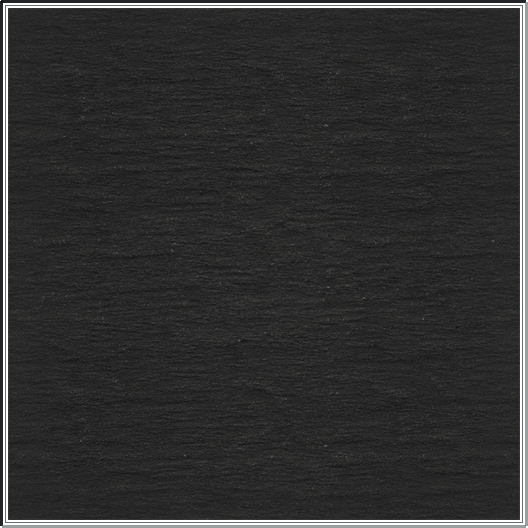
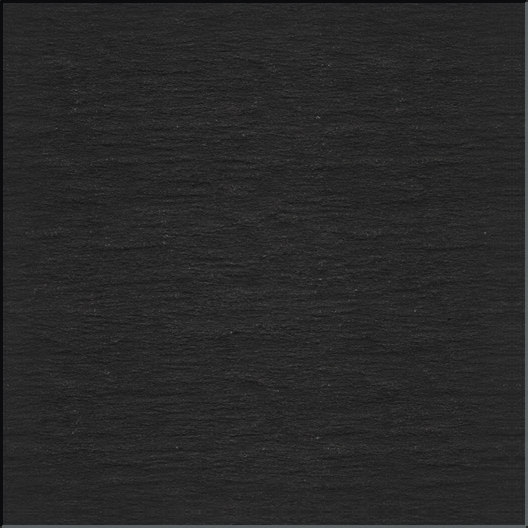
Polish slate surfaces and Character Files workspace

Changed region(s): [[0.0, 0.0, 1.0, 1.0]]

diff --git a/src/presentation/AGENTS.md b/src/presentation/AGENTS.md
@@ -22,7 +22,7 @@ Own scenes, controls, screen presenters, topology-derived rendering caches, anim
 - Party setup renders all six current-party slots with full-size portraits and without scrolling at the minimum viewport, removing assembly-only helper copy before shrinking portraits. It presents Monster Set in Normal, Mega, Monster order alongside source-authored recommended/maximum/current aggregate levels and the core-computed experience percentage. Difficulty and Monster Set controls emit one typed setup intent; labels and availability come from the detached `PartySetupView`, and presentation never recomputes reward scaling or monster identity.
 - Appearance may sort detached options and decode their package thumbnails, but it retains stable asset IDs and never enumerates host folders. The selected portrait may pair its corresponding tactical icon only until the player explicitly changes that icon.
 - Identity exposes Castle's fixed starting levels filtered by the campaign maximum. Presentation submits the selected level and renders the resulting session-owned draft; it never synthesizes an advanced character or calculates progression. Reroll and acceptance emit typed intents; the unspent-spell and vault-publication confirmations are session-owned interactions, not local dialog shortcuts.
-- The vault workspace renders detached immutable revision history and exact eligibility reasons. Archive/recovery signals cross to the host repository; presentation never opens, moves, rewrites, or deletes `.r2char` files.
+- The Character Files workspace is a full-stage route that suppresses the persistent roster, textbox, and command deck. It renders detached immutable revision history and exact eligibility reasons with the complete viewport available. Archive/recovery signals cross to the host repository; presentation never opens, moves, rewrites, or deletes `.r2char` files.
 - The System workspace renders detached primary/backup save previews and exact corruption or identity-mismatch reasons. Browsing never opens save files, and choosing a candidate delegates full validation and replacement-session restore to the host.
 - Finalized and imported setup members render only from `GameView`; Add, Remove, and Begin emit typed intents. The presenter does not retain a parallel party array or infer that a committed setup edit has begun the adventure. Setup inspection fills the setup viewport on an opaque clipped surface above assembly, so the complete character sheet never composites with the picker beneath it.
 - Party setup and campaign-aware vault browsing reuse `ClassicCharacterSheet` for complete mutation-free inspection before import or Begin. Eligible and ineligible revisions keep their exact target-campaign reasons visible; inspection never changes or republishes a vault revision.
@@ -48,7 +48,7 @@ Own scenes, controls, screen presenters, topology-derived rendering caches, anim
 - Switching between 2D and 3D changes only presentation settings. It cannot create collision, movement, LOS, discovery, or door state.
 - Presentation and accessibility settings cannot change rules.
 - Auto Switch to Melee is a persisted application convenience preference, defaulted on from Castle's bundled preferences. Presentation attaches its boolean value only to a manual combat movement response; it never mutates battle weapon mode or supplies the preference to direct Attack, current-turn Auto, persistent Auto, charmed actors, or monsters.
-- Realmz Rebuilt has one visual system. Verified base-game command bitmaps and integrated Classic media are application-owned, versioned assets; scenario-owned CICNs, portraits, pictures, sounds, and map art remain package content. Exact scenario `(resource type, ID)` keys override the corresponding application key. Application PICT/CICN families migrate only after their package-reference and readiness contracts are proven; numeric ID alone never selects an owner. Both catalogs use nearest-neighbor sampling where applicable and never share an ambiguous lookup. Slate backgrounds and frame centers use the manifest-backed seamless tile at native scale with repeat enabled; responsive containers crop or tile it and never stretch it.
+- Realmz Rebuilt has one visual system. Verified base-game command bitmaps and integrated Classic media are application-owned, versioned assets; scenario-owned CICNs, portraits, pictures, sounds, and map art remain package content. Exact scenario `(resource type, ID)` keys override the corresponding application key. Application PICT/CICN families migrate only after their package-reference and readiness contracts are proven; numeric ID alone never selects an owner. Both catalogs use nearest-neighbor sampling where applicable and never share an ambiguous lookup. Slate backgrounds and frame centers use the manifest-backed seamless tile at native scale with repeat enabled; responsive containers crop or tile it and never stretch it. Generated raised/inset bevels retain opaque slate through their complete bounds so buttons and panels never expose accidental parent-colored corner gaps.
 - If an action has no verified bitmap in the app-owned catalog, render its ordinary text label through the shared theme. Never construct a blank `TextureButton`, repurpose a status marker as command art, or make hover text the only visible action identity.
 - Interface density and text scale are independent. The window minimum is 800x600; larger settings stack, wrap, or scroll and do not fractionally scale Classic map/content art.
 - Unidentified item views expose only player-knowable names and details. Presentation never reveals identified descriptions, values, curse relationships, or other hidden definition facts.

diff --git a/src/presentation/assets/AGENTS.md b/src/presentation/assets/AGENTS.md
@@ -14,7 +14,7 @@ Own Realmz 2 application chrome assets and their provenance.
 - Scenario-owned pictures, icons, portraits, sounds, and map art remain package media. Built-in resource families enter this folder only through an exact-commit catalog with explicit ownership, license, modifications, and byte hashes; scenario packages may override an exact application key.
 - Verified base-game UI controls and map markers may enter only through the exact-commit catalog/importer. Preserve their source pixels and embedded labels. Record semantic evidence per asset: donor-scene use for controls or pinned Castle resource-fork ownership plus source/control-flow for built-in CICNs. A numeric resource ID without its owning fork is insufficient provenance.
 - Generated chrome must contain no text, symbols, scenario content, or executable metadata. It surrounds imported controls but never repaints them.
-- The selected SpriteCook surface remains preserved as provenance input. Runtime slate uses its deterministic cosine-feathered seamless derivative; frame centers contain that same native-scale tile. Opposite tile edges must match exactly, and no container may stretch a stone center.
+- The selected SpriteCook surface remains preserved as provenance input. Runtime slate uses its deterministic cosine-feathered seamless derivative; frame centers and complete bevel bounds contain that same native-scale tile. Opposite tile edges must match exactly, no container may stretch a stone center, and generated frame corners must remain opaque.
 - Original controls use nearest-neighbor filtering at exact 1x/2x only. Fonts ship with pinned source, hashes, and licenses and introduce no runtime network dependency.
 - Integrated sounds retain exact `snd ` IDs and load from Godot-imported WAV resources. The generated manifest and `THIRD_PARTY_NOTICES.txt` preserve the Castle commit, source fork, copyright, license, and decoding/resampling modification.
 - Integrated combat CIcons retain exact `cicn` IDs and native dimensions. The selected catalog is limited to source-backed active cues, result effects 159–167, bounded death-effect candidates 2015–2019, and existing spell cast/resolution frames 12000–12127. Standard spells with `lookStart` zero make Castle request the absent 11992–11999 family; presentation reports that exact unavailable identity rather than substituting art. Scenario media overrides the same exact key. Red pixels or numeric adjacency alone do not establish blood, gore, or a semantic identity.

diff --git a/tools/ui-assets/AGENTS.md b/tools/ui-assets/AGENTS.md
@@ -17,7 +17,7 @@ Own deterministic import and derivation of Realmz Rebuilt application chrome and
 - Preserve imported pixels byte-for-byte. Derived slate surfaces must identify their source asset and algorithm.
 - Integrated media keeps exact Classic `(resource type, ID)` identity and provenance. The runtime resolves scenario package media before these application fallbacks, matching Castle's resource-chain precedence.
 - Preserve existing Godot `.import` sidecars for retained catalog assets so exact-byte regeneration does not churn stable resource UIDs; newly added assets receive their sidecars from the ordinary Godot import pass.
-- `build-classic-surfaces.ps1 -RebuildFromCommittedSurface` is the offline path for regenerating the seamless tile and frame kit without replacing selected SpriteCook provenance.
+- `build-classic-surfaces.ps1 -RebuildFromCommittedSurface` is the offline path for regenerating the seamless tile and frame kit without replacing selected SpriteCook provenance. Raised and inset frames tile the selected slate through their complete bounds; bevel corners remain opaque so controls cannot reveal unrelated parent colors.
 - Validate hashes and PNG dimensions before replacing committed outputs.
 
 ## Work Guidance
@@ -27,7 +27,7 @@ Own deterministic import and derivation of Realmz Rebuilt application chrome and
 ## Verification
 
 - `sync-classic-ui-assets.ps1` verifies source commits, source hashes, decoded CICN identity, PNG bytes, dimensions, and manifest output.
-- `build-classic-surfaces.ps1` verifies every generated PNG, records deterministic SHA-256 values, and produces a tile with exact matching opposite edges.
+- `build-classic-surfaces.ps1` verifies every generated PNG, records deterministic SHA-256 values, produces a tile with exact matching opposite edges, and records the opaque-bevel algorithm version.
 - `verify-classic-application-media.ps1` verifies unique IDs/resource keys, the expected integrated sound and combat-CIcon counts, native image dimensions, and every committed byte count and SHA-256 without requiring an external Castle checkout.
 
 ## Child DOX Index

diff --git a/tests/presentation/AGENTS.md b/tests/presentation/AGENTS.md
@@ -31,7 +31,7 @@
 - System workspace fixtures cover detached current and backup save facts, distinct load operations, and disabled corrupt-record reasons without reading host files.
 - Lifecycle fixtures distinguish End Adventure from process Quit, cover each field/combat/no-session option set, and prove save-failure suppression, explicit no-save, Cancel, and response identity without closing the test process or treating the host prompt as gameplay state.
 - Package-library fixtures distinguish manifest availability from full readiness and cover determinate worker progress, competing-action suppression, Cancel signaling, and terminal cleanup without opening archives from presentation.
-- Startup-shell fixtures cover the pre-session splash, scenario selection, Character Files entry, and return navigation. Party-setup fixtures assert that advanced revision/archive controls stay out of ordinary assembly. Menu-state fixtures cover no-session and party-setup route suppression, disabled parent menus, and opaque popup borders.
+- Startup-shell fixtures cover the pre-session splash, scenario selection, full-stage Character Files entry without the persistent roster, and return navigation. Party-setup fixtures assert that advanced revision/archive controls stay out of ordinary assembly. Surface fixtures require shared root slate through pre-session/setup overlays and opaque bevel corners; menu-state fixtures cover no-session and party-setup route suppression, disabled parent menus, and opaque popup borders.
 - Appearance fixtures cover both exact package roles, recommendation-first browsing, presentation-only preview, one typed Apply request, no-op Discard, long labels, and visible core-owned unavailable reasons.
 - Use MCP after `play_scene` to confirm mouse activation for campaign selection, AP Continue responses, and original-bitmap encounter actions; keyboard activation alone is insufficient pointer evidence.
 
